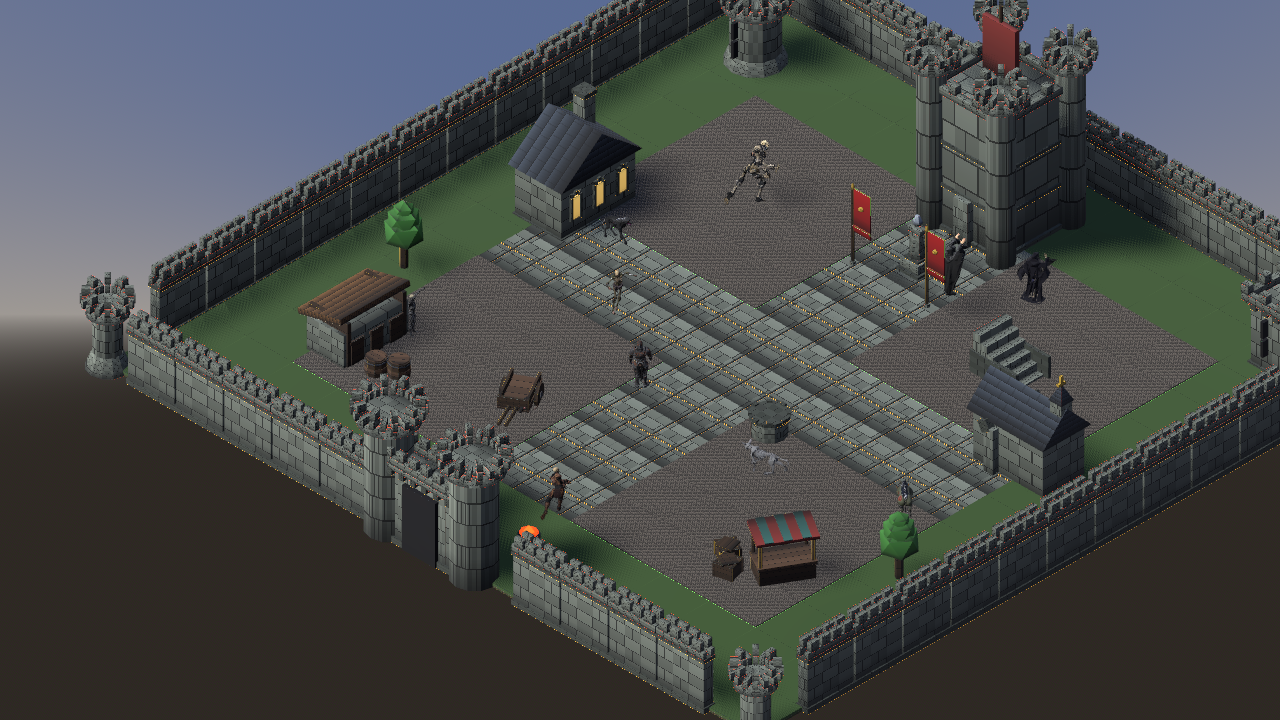
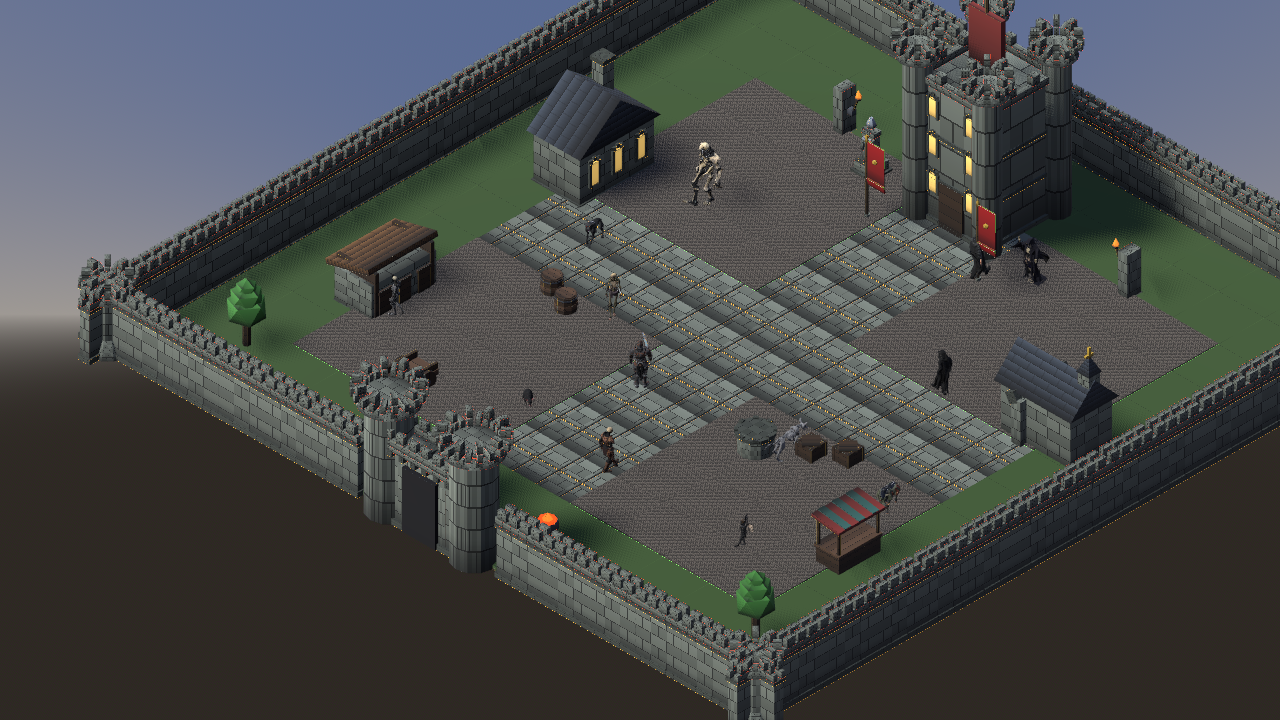
docs(demo): update README + hero shot for round-2 features
README documents run/shift-run controls, the sword, 13 wandering NPCs
(11 mobile + 2 idler stragglers), the seamless wall ring + door-facing
layout, all new verification flags/validators, and the two skills this
demo produced. New hero.png shows the finished courtyard.

diff --git a/products/grimforge_playable_demo_v1/README.md b/products/grimforge_playable_demo_v1/README.md
@@ -2,8 +2,9 @@
 
 A playable isometric castle-courtyard scene assembled entirely from GrimForge
 kit assets: castle tiles/buildings from **castle_kit_grimforge_v1**, populated
-with **grimforge_bestiary_v1** creatures, and a player-controlled
-**revenant knight** with baked idle/walk animation.
+with wandering **grimforge_bestiary_v1** creatures, and a player-controlled
+**revenant knight** (sword-armed, with idle/walk/run animation) from
+**arsenal_kit_grimforge_v1**.
 
 ![hero](hero.png)
 
@@ -20,21 +21,25 @@ godot --path products/grimforge_playable_demo_v1
 | Key | Action |
 |---|---|
 | Arrow keys | Move the knight (camera-relative, isometric) |
+| Hold Shift | Run |
 
-The knight plays its walk cycle while moving and returns to idle when you
-stop. Buildings, walls, and props are solid.
+The knight carries a sword and plays walk / run cycles while moving, idle when
+stopped. Buildings, walls, and props are solid.
 
 ## Scene contents
 
-- **Environment** (`scripts/env.gd`): 14x14 measured-pitch tile grid (cobble
-  court, flagstone cross, grass ring), perimeter walls + corner towers +
-  gatehouse, keep, great hall, chapel, stable, market stall, well, props.
+- **Environment** (`scripts/env.gd`): measured-pitch tile grid (cobble court,
+  flagstone cross paths, grass ring), a seamless perimeter wall ring with
+  corner towers + gatehouse, and grid-aligned buildings (keep, great hall,
+  chapel, stable, market stall, well) whose doors face the courtyard paths.
   Isometric orthographic camera (35 deg pitch / 45 deg yaw).
-- **Bestiary** (`scripts/bestiary.gd`): 9 animated bipeds (Unity-baked clips,
-  albedo re-applied) + 4 quadrupeds (UniRig + Blender walk cycles via
-  runtime GLTFDocument load).
-- **Player** (`scripts/player.gd`): CharacterBody3D; idle FBX rig with the
-  walk clip merged at runtime from the twin walk FBX export.
+- **Bestiary** (`scripts/bestiary.gd` + `scripts/npc.gd`): 13 NPCs that wander
+  — walk to random waypoints near home, then rest playing an idle/flavor clip.
+  11 are mobile (7 bipeds + 4 quadrupeds); lich_king + skeleton_mage are
+  stationary idlers (their AccuRIG rigs failed Unity's humanoid auto-map).
+- **Player** (`scripts/player.gd`): CharacterBody3D; idle rig with walk + run
+  clips merged at runtime (track-prefix remapped), plus an arsenal-kit sword
+  attached to the right-hand bone via BoneAttachment3D.
 
 ## Asset provenance
 
@@ -47,13 +52,25 @@ stop. Buildings, walls, and props are solid.
   (AccuRIG rigs, Unity Humanoid retarget, binary FBX, Godot native ufbx).
 - Quadrupeds: `products/grimforge_bestiary_v1/_quad_viewer/quads/*_v2.glb`.
 - Knight locomotion: idle = shared Mixamo set; walk = ActorCore
-  `walk-relaxed-loop-378936` — both baked onto the AccuRIG knight rig in
-  Unity (`_tools/bake_knight_locomotion.cs`) and exported as binary FBX.
+  `walk-relaxed-loop-378936`; run = ActorCore Run Forward — all baked onto the
+  AccuRIG knight rig in Unity (`_tools/bake_*_locomotion.cs`) and exported as
+  binary FBX. NPC walk clips baked the same way (`bake_batch_locomotion.cs`).
+- Sword: `products/arsenal_kit_grimforge_v1/models_glb/sword.glb` (copied into
+  `weapons/`), attached to `CC_Base_R_Hand`.
 
 ## Verification harness
 
 CLI flags after `--` for scripted checks: `--shot=name.png[:delay]`,
-`--quit-after=S`, `--drive=S` / `--drive=up+left:S` (simulated input),
-`--zoom=N`, `--topdown`, `--flat`, `--overview`, `--noshadow`.
-`scripts/check_knight.gd` validates the knight FBX imports (clip names +
-skeleton bbox scramble check).
+`--quit-after=S`, `--drive=S` / `--drive=up+left:S` / `--run` (simulated
+input), `--zoom=N` / `--camsize=N`, `--topdown`, `--flat`, `--overview`,
+`--noshadow`, `--wpos/--wrot/--wscale/--wgrip` (sword grip tuning).
+Validators: `scripts/check_knight.gd`, `scripts/check_locomotion.gd` (clip
+imports + skeleton bbox scramble check), `scripts/measure_walk.gd` (walk
+ground-speed match). Kit inspectors: `scripts/diag_buildings.gd`,
+`scripts/diag_doors.gd`, `scripts/diag_weapon.gd`.
+
+## Skills
+
+This demo produced two reusable skills: `equip-character-assets` (attach
+weapons/props to a rigged character) and `kit-scene-layout` (assemble a
+coherent scene from a modular building kit).
